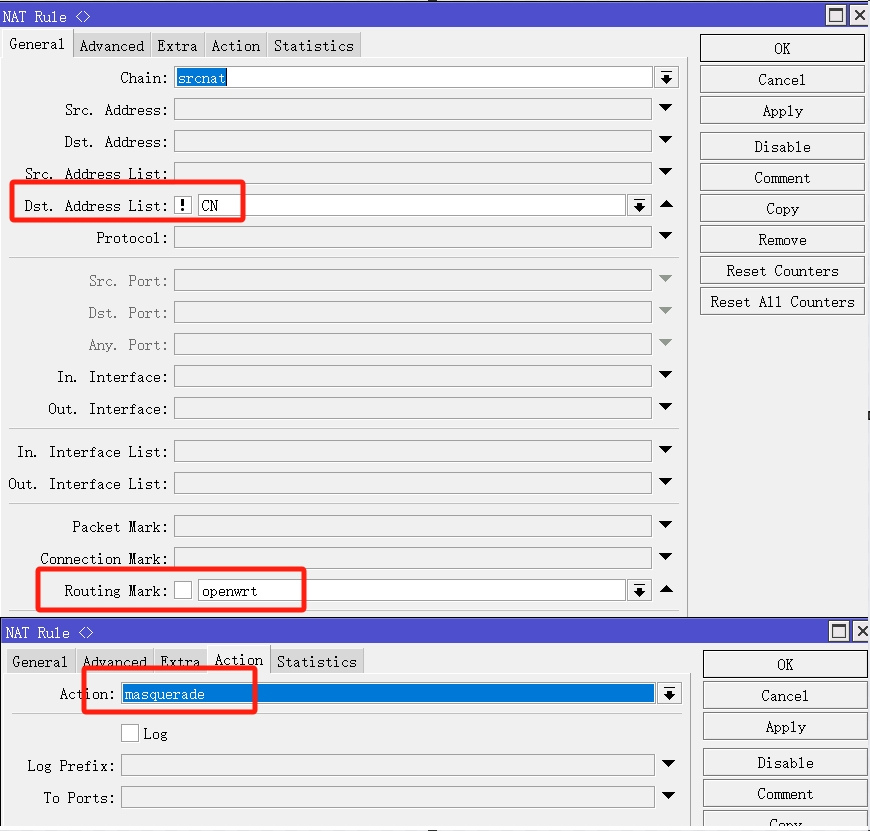
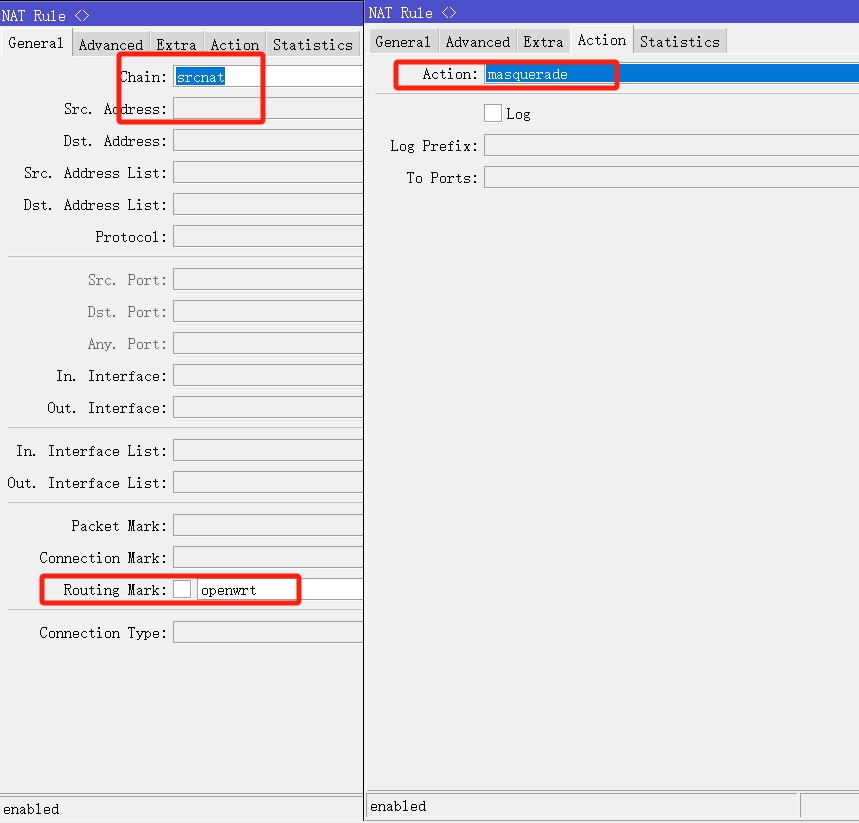
Site updated: 2025-05-11 11:52:10

diff --git a/2025/05/09/【RouterOS(ROS)】IPv4 IPv6 自动分流设置/index.html b/2025/05/09/【RouterOS(ROS)】IPv4 IPv6 自动分流设置/index.html
@@ -41,7 +41,7 @@
 <meta property="og:image" content="https://tty228.github.io/images/2025/1_13.png">
 <meta property="og:image" content="https://tty228.github.io/images/2025/1_14.png">
 <meta property="article:published_time" content="2025-05-09T13:54:26.112Z">
-<meta property="article:modified_time" content="2025-05-10T10:47:07.329Z">
+<meta property="article:modified_time" content="2025-05-11T03:49:20.514Z">
 <meta property="article:author" content="tty228">
 <meta property="article:tag" content="RouterOS">
 <meta property="article:tag" content="ROS">
@@ -270,7 +270,7 @@
         <i class="far fa-calendar-check"></i>
       </span>
       <span class="post-meta-item-text">更新于</span>
-      <time title="修改时间：2025-05-10 18:47:07" itemprop="dateModified" datetime="2025-05-10T18:47:07+08:00">2025-05-10</time>
+      <time title="修改时间：2025-05-11 11:49:20" itemprop="dateModified" datetime="2025-05-11T11:49:20+08:00">2025-05-11</time>
     </span>
     <span class="post-meta-item">
       <span class="post-meta-item-icon">
@@ -444,7 +444,6 @@
 <p>General</p>
 </blockquote>
 <ul>
-<li>Dst.Address List： 目标地址列表，选择 CN 和 前面的空白方块 [!] ，表示目标地址不在 CN 列表中时才命中规则</li>
 <li>Routing Mark： 选择之前添加的路由表，表示仅处理已被标记的包</li>
 </ul>
 <blockquote>
@@ -453,7 +452,7 @@
 <ul>
 <li>Action：  masquerade  将源地址从 OpenWrt 伪装为 RouterOS，以正常响应回程包</li>
 </ul>
-<figure class="highlight plaintext"><table><tr><td class="gutter"><pre><span class="line">1</span><br><span class="line">2</span><br><span class="line">3</span><br></pre></td><td class="code"><pre><span class="line">/ipv6 firewall nat</span><br><span class="line">add action=masquerade chain=srcnat comment=&quot;defconf: masquerade IPv6&quot; \</span><br><span class="line">    dst-address-list=!CN routing-mark=openwrt</span><br></pre></td></tr></table></figure>
+<figure class="highlight plaintext"><table><tr><td class="gutter"><pre><span class="line">1</span><br><span class="line">2</span><br><span class="line">3</span><br></pre></td><td class="code"><pre><span class="line">/ipv6 firewall nat</span><br><span class="line">add action=masquerade chain=srcnat comment=&quot;defconf: masquerade IPv6&quot; \</span><br><span class="line">    routing-mark=openwrt</span><br></pre></td></tr></table></figure>
 
 <ol start="3">
 <li>IPv4 其实也可以这样处理<br><img src="/images/2025/1_14.png" alt="IPv4 防火墙设置"></li>

diff --git a/index.html b/index.html
@@ -343,7 +343,7 @@
         <i class="far fa-calendar-check"></i>
       </span>
       <span class="post-meta-item-text">更新于</span>
-      <time title="修改时间：2025-05-10 18:47:07" itemprop="dateModified" datetime="2025-05-10T18:47:07+08:00">2025-05-10</time>
+      <time title="修改时间：2025-05-11 11:49:20" itemprop="dateModified" datetime="2025-05-11T11:49:20+08:00">2025-05-11</time>
     </span>
     <span class="post-meta-item">
       <span class="post-meta-item-icon">
